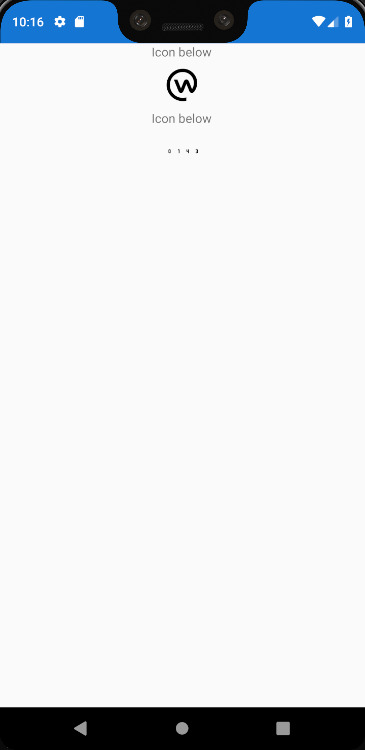
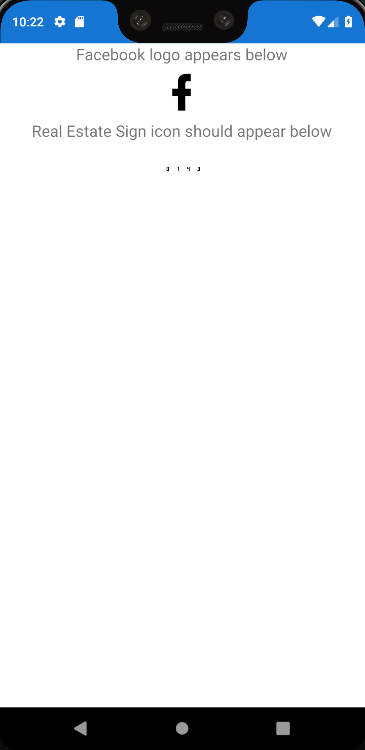
Embiggened

Changed region(s): [[0.0904, 0.0613, 0.9041, 0.184], [0.0904, 0.0, 0.1205, 0.0613]]

diff --git a/FontImageUtf32/FontImageUtf32/MainPage.xaml b/FontImageUtf32/FontImageUtf32/MainPage.xaml
@@ -4,6 +4,7 @@
              xmlns:d="http://xamarin.com/schemas/2014/forms/design"
              xmlns:mc="http://schemas.openxmlformats.org/markup-compatibility/2006"
              mc:Ignorable="d"
+             BackgroundColor="White"
              xmlns:local="clr-namespace:FontImageUtf32"
              x:Class="FontImageUtf32.MainPage">
 
@@ -11,13 +12,13 @@
         <Label Text="Facebook logo appears below" 
                HorizontalOptions="Center" 
                FontSize="Medium"/>
-        <Image HeightRequest="44"
+        <Image HeightRequest="50"
                HorizontalOptions="Center"
                VerticalOptions="Center"
-               WidthRequest="44">
+               WidthRequest="50">
             <Image.Source>
             <FontImageSource Color="Black"
-                             Size="44"
+                             Size="50"
                              FontFamily="{DynamicResource MaterialFontFamily}"
                              Glyph="{x:Static local:MaterialDesignIconFont.Facebook}"/>
             </Image.Source>
@@ -25,13 +26,13 @@
         <Label Text="Real Estate Sign icon should appear below" 
                HorizontalOptions="Center" 
                FontSize="Medium"/>
-        <Image HeightRequest="44"
+        <Image HeightRequest="50"
                HorizontalOptions="Center"
                VerticalOptions="Center"
-               WidthRequest="44">
+               WidthRequest="50">
             <Image.Source>
                 <FontImageSource Color="Black"
-                             Size="44"
+                             Size="20"
                              FontFamily="{DynamicResource MaterialFontFamily}"
                              Glyph="{x:Static local:MaterialDesignIconFont.SignRealEstate}"/>
             </Image.Source>
